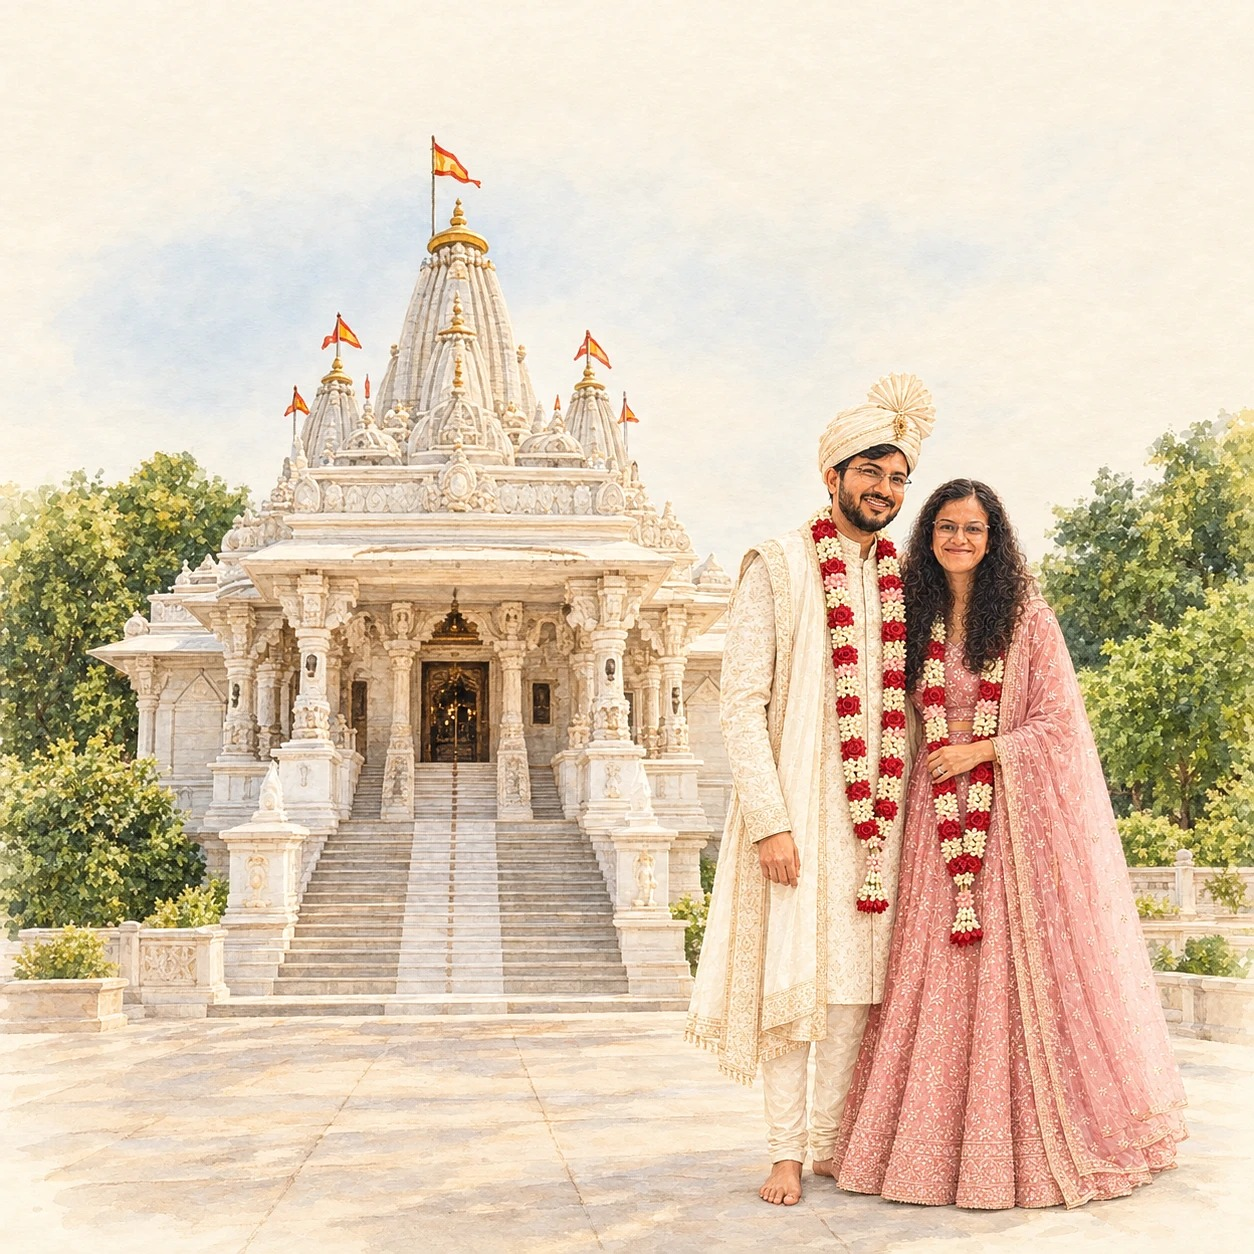
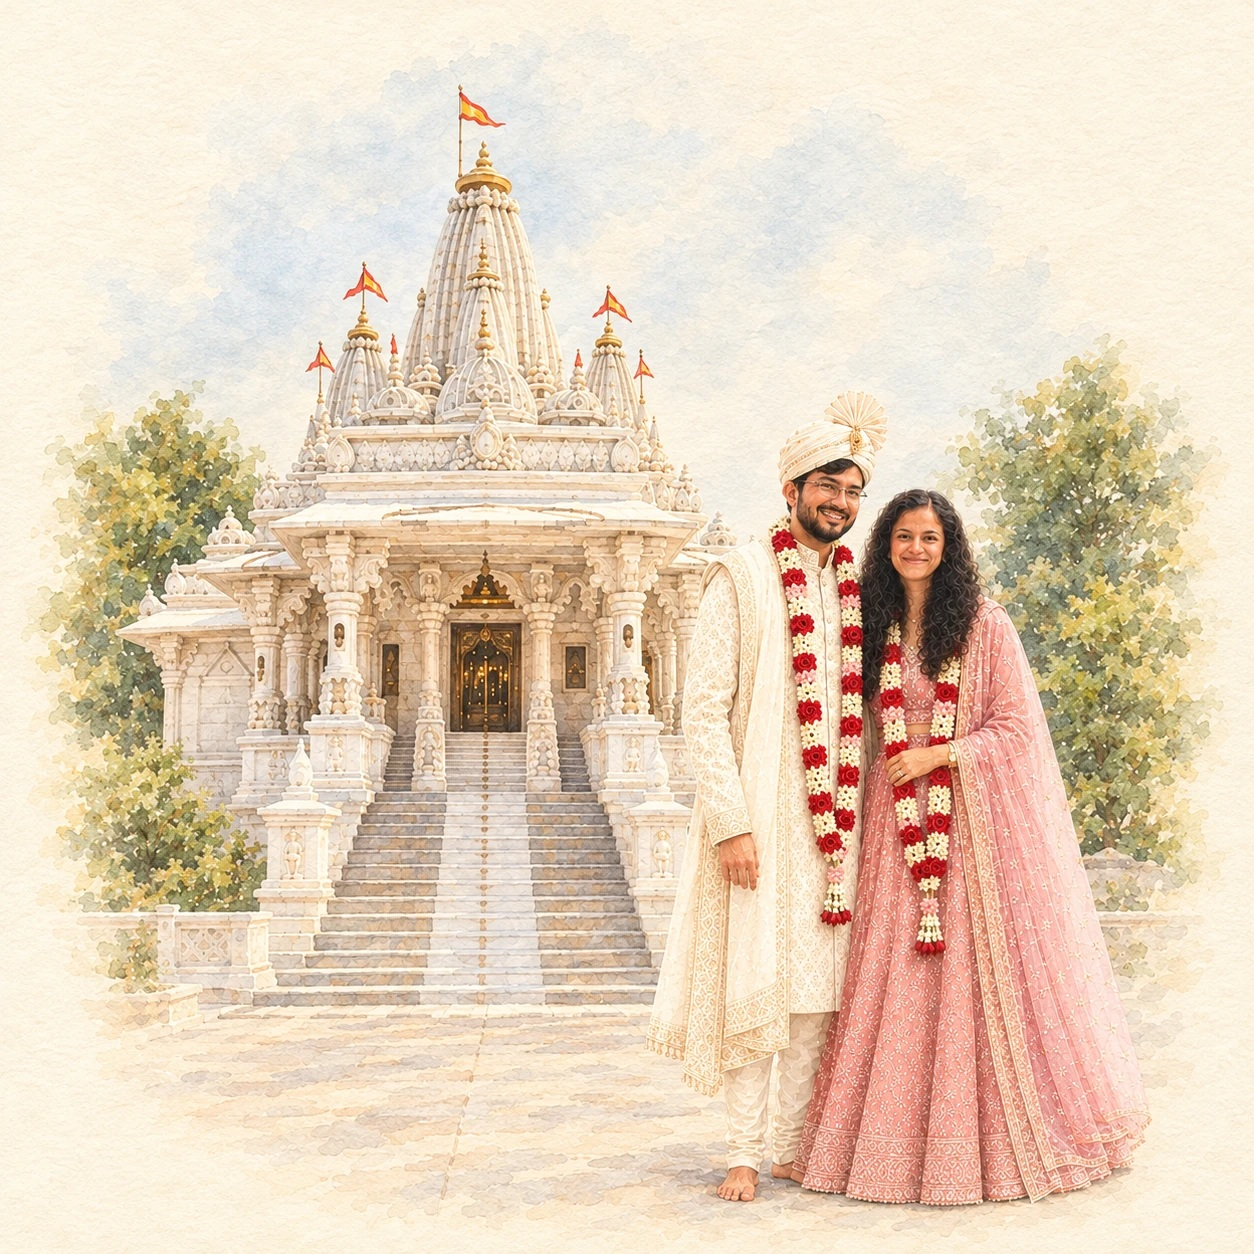
Bells version (preview): use the ChatGPT temple painting (no glasses on the bride), refit and move the heart start
Claude-Session: https://claude.ai/code/session_014jEFCskwwNy5yMcLBTXkCs

diff --git a/harsh-stuti-bells/styles.css b/harsh-stuti-bells/styles.css
@@ -866,3 +866,10 @@ body::before {
 .stage.no-anim .shared-logo, .stage.no-anim .shared-names { transition: none !important; }
 /* crisp temple painting: no haze filter */
 .ground--s1 .photo-ground--one img { filter: none; image-rendering: -webkit-optimize-contrast; }
+/* ChatGPT painting already fades into paper: light mask only */
+.ground--s1 .photo-ground--one img {
+  width: 480px; height: 480px; bottom: 14px;
+  -webkit-mask-image: radial-gradient(ellipse 70% 70% at 50% 50%, #000 70%, transparent 100%);
+          mask-image: radial-gradient(ellipse 70% 70% at 50% 50%, #000 70%, transparent 100%);
+}
+.ground--s1 .photo-ground--one img { width: 436px; height: 436px; bottom: 44px; }

diff --git a/harsh-stuti-bells/script.js b/harsh-stuti-bells/script.js
@@ -148,7 +148,7 @@ function heartRoute() {
   if (img) {
     const s = parseFloat(getComputedStyle(stage).getPropertyValue("--scale")) || 1;
     const sr = stage.getBoundingClientRect(), r = img.getBoundingClientRect();
-    pts.push({ x: (r.left - sr.left) / s + (r.width / s) * 0.715, y: (r.top - sr.top) / s + (r.height / s) * 0.46 });
+    pts.push({ x: (r.left - sr.left) / s + (r.width / s) * 0.69, y: (r.top - sr.top) / s + (r.height / s) * 0.5 });
     pts.push({ x: (pts[0].x + lp.x) / 2, y: (pts[0].y + lp.y) / 2 });
   } else {
     pts.push({ x: lp.x, y: lp.y + 70 });
